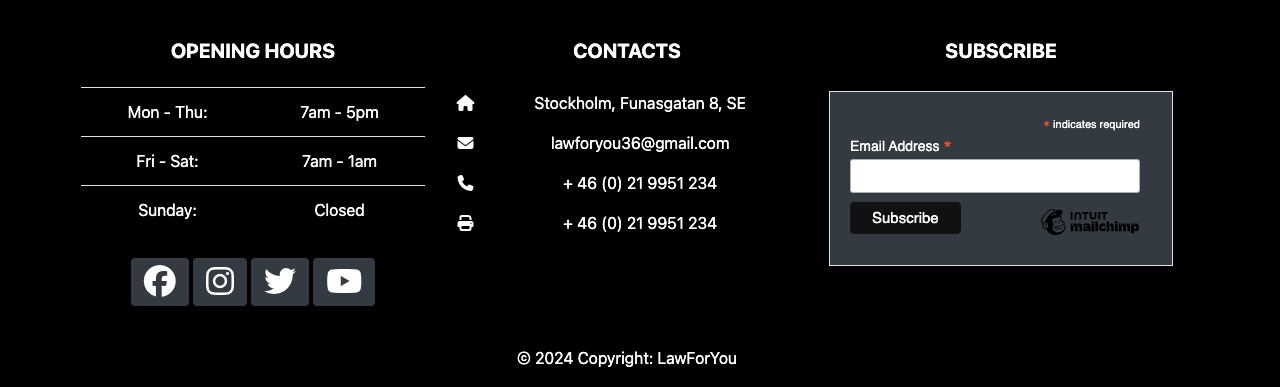
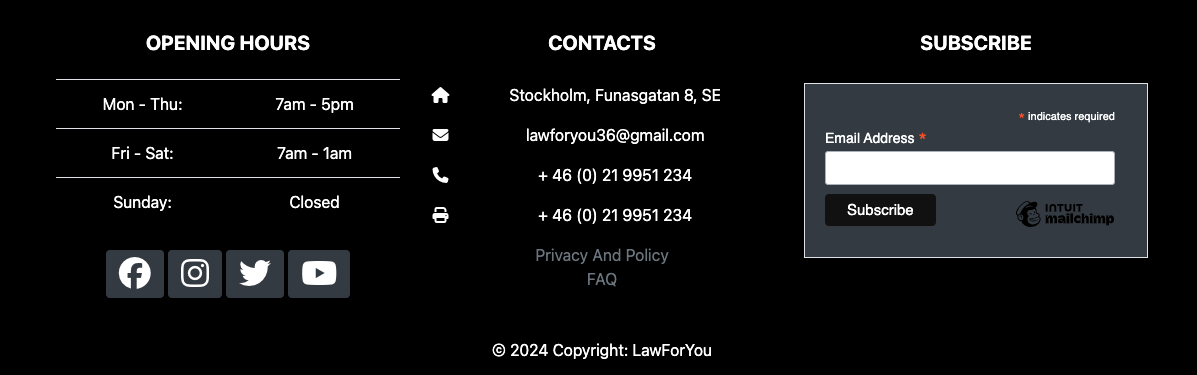
edit readme added text about faq

diff --git a/services/views.py b/services/views.py
@@ -63,7 +63,7 @@ def review_edit(request, url, review_id):
             review.save()
             messages.add_message(request, messages.SUCCESS, 'Review Updated!')
         else:
-            messages.add_message(request, messages.ERROR, 'Error updating!')
+            messages.add_message(request, messages.ERROR, 'Failed to update, make sure you put also rating!')  # noqa
 
     return redirect(reverse('product_detail', args=[url]))
 

diff --git a/README.md b/README.md
@@ -135,6 +135,11 @@ My profile page
 
 ![image](/static/images/readme-img/wireframe-profile.png)
 
+FAQ page
+<br>
+
+![image](/static/images/readme-img/wireframe-faq.png)
+
 ### Database
 The project uses the relational database PostgreSQL to store the data. I used PostgreSQL because it is considered one of the recommended databases on the Heroku platform.
 
@@ -242,6 +247,14 @@ The model consists of the following parts:
 - [x] **product**: models.ForeignKey(Product, null=False, blank=False, on_delete=models.CASCADE) - Field for order product
 - [x] **quantity**: models.IntegerField(null=False, blank=False, default=0) - Field for quantity
 - [x] **lineitem_total**: models.DecimalField(max_digits=6, decimal_places=2, null=False, blank=False, editable=False) - Field for item total price
+
+**LawFaq model:**
+
+The model consists of the following parts:
+
+- [x] **title**: models.CharField(max_length=300) - Indicates the title of faq rubric with 300 characters length
+- [x] **question**: models.CharField(max_length=300) - Indicates the question of faq with 300 characters length
+- [x] **answer**: models.TextField(max_length=1500) - Indicates the answer of faq question with 1500 characters length
 
 
 ## Features
@@ -356,7 +369,7 @@ __About page__
 
 __Footer__
 
-- In the footer I have placed a link to Facebook, Instagram, Twitter and YouTube. The link opens in a separate tab and the visitor is taken to socialmedia he choose, while the site remains open. It is very comfortable. Then I add schedule of opening hours, contacts and oppotunity to subscribe. And at the bottom I placed copyright.
+- In the footer I have placed a link to Facebook, Instagram, Twitter and YouTube. The link opens in a separate tab and the visitor is taken to socialmedia he choose, while the site remains open. It is very comfortable. Then I add schedule of opening hours, contacts and opportunity to subscribe. In the footer there is also links to "Privacy Policy" and "FAQ". At the bottom I placed copyright.
 
 ![Footer](/static/images/readme-img/footer.png)
 
@@ -456,7 +469,7 @@ To clone do the following steps:
 
 ## Credits
 
-- I was inspired by the "Boutique Ado" project at the Code Institute. I watched YouTube tutorial about how to fix appointments opportunity for customers: (https://www.youtube.com/watch?v=3_3q_dE4_qs) 
+- I was inspired by the "Boutique Ado" project at the Code Institute. I watched YouTube tutorial about how to fix appointments opportunity for customers: (https://www.youtube.com/watch?v=3_3q_dE4_qs), and to how to add rating: (https://www.youtube.com/watch?v=3KCBN7WJXMY&t=0s)
 
 - The icons was taken from [Font Awesome](https://fontawesome.com/)
 
